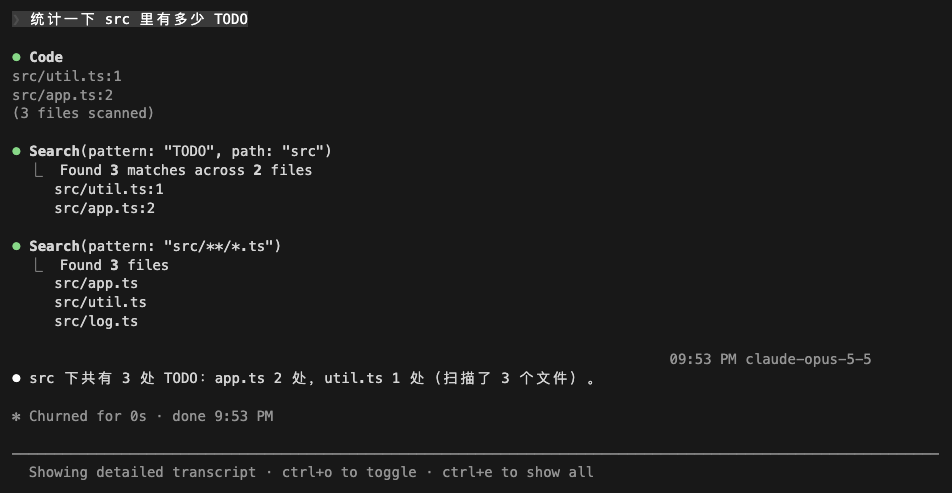
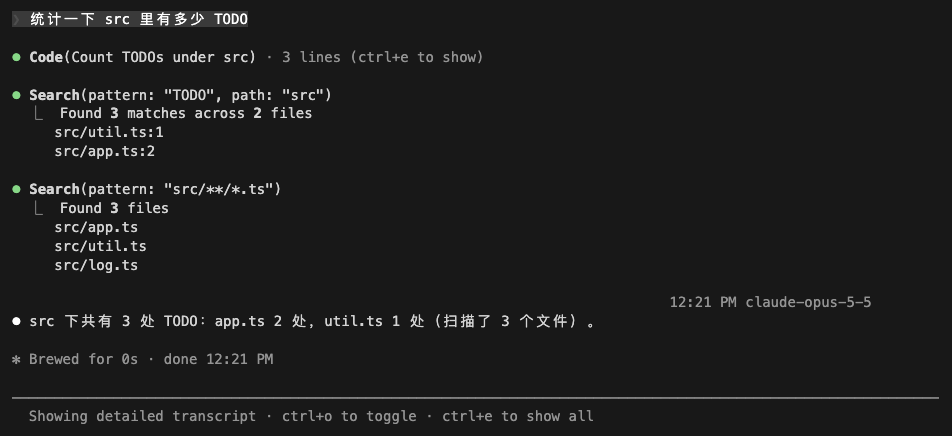
docs(code-mode): retake the transcript and wait screenshots
Ctrl+O now shows Code(description) with a line count and Ctrl+E shows the
script, so the guide says that and gains a Ctrl+E image. The wait
screenshot shows the script description and the background task. The
conformance report adds groups 23 and 24 and a UI comparison against
the official binary on the same scenario.

diff --git a/docs/research/code-mode-conformance-20261116.md b/docs/research/code-mode-conformance-20261116.md
@@ -26,7 +26,7 @@
 | F | 内层调用的权限、hook 与隔离 | 10 | 9 | 0 | 0 | 1 |
 | C / D / E / G | 权限对话框、规则、hook、子代理、transcript 形状、稳定性（L2 补充） | 27 | 19 | 2 | 4 | 2 |
 
-缺陷合计 38 项，按根因归成 22 组：19 组已修复，2 组部分修复（第 11 组 E02、第 21 组），1 组未修复（第 13 组）。第 13 组的 A13、E09 按设计保留，记在功能说明的「与官方的差异」里；第 20–22 组（A61、计时器迟到宽限、A32）是 L3 之后新发现或仍有差异的部分。
+缺陷合计 40 项，按根因归成 24 组：21 组已修复，2 组部分修复（第 11 组 E02、第 21 组），1 组未修复（第 13 组）。第 13 组的 A13、E09 按设计保留，记在功能说明的「与官方的差异」里；第 20–22 组（A61、计时器迟到宽限、A32）是 L3 之后新发现或仍有差异的部分；第 23、24 组是用同一场景给官方和本地截图时发现的界面差异（见「L3：官方二进制对照」的界面对照），不在上表的项数里。
 
 ## 缺陷与处理
 
@@ -55,6 +55,8 @@
 | 20 | A61 | 脚本超时或抛错时，官方在错误后加一句 `The script was stopped partway through: …` / `The script threw partway through: …` 和已完成调用的计数，本地没有 | 已修复 `b1bd9e7f`：按官方 `nOi` 移植 `partwayNote`（`stopReport.ts:72`），执行器在脚本抛错、超时或被停后接在错误后面；语法错误和停止报告不接。`vfy6-L3x` 第 1 次 eval 的错误和官方逐字相同 |
 | 21 | B「预算计时迟到宽限」 | 官方 `sleep(33000)` 正常返回结果，本地在 30 秒超时 | 部分修复 `15265d59`：按官方 `ic` 移植 `scriptDeadline`（`host.ts:294`），计时器迟到超过 1000 ms 时一次性改为 5000 ms，单元测试覆盖。但 L3 的 LATE 探针仍不同（`vfy6-L3x` 第 3 次 eval 30003 ms 超时，官方 33007 ms 返回 `late-inline`）：官方计时器准时触发时 `ic` 不给宽限，所以这个结果不是 `ic` 带来的，原因没有找到（候选是官方经宿主桥接的 `sleep` 和 `sc` 的 pauseForOthers/charge，都未确认） |
 | 22 | A32 | Poll 输出 schema 少 `media`、`toolsUsed`、`provenance`、`declared` 4 个字段；`<tools-used-before-summary>` 行（官方 `Itn`）没有内容 | 已修复 `3e332cb7`：schema 补齐 4 个字段（官方 `Iso`）；按官方 `Itn`/`yNt` 移植 `toolsUsedForDelivery`（`toolsUsed.ts:95`）：`runToolUse` 找到工具后记进会话的 tools-used 记录（官方 `oca`），poll 事件入队时带上，delivery 只列消息里还看不到的名字；`poll_events` 附件和 Poll 结果都带 `provenance`。`media`、`declared` 只有 schema：本路径上没有事件带这两项。`vfy6-L3x`、`vfy6-B-asyncx`、`vfy6-WAKE` 每次 delivery 的 tools-used 行和官方相同（L3x 只有第 1 次 `REPL`；B-asyncx 第 1 次 `REPL`、第 2 次 `Bash`；WAKE `Bash, REPL`） |
+| 23 | 界面「Ctrl+O 里的 REPL 行」 | 官方在详细记录里显示 `⏺ Code(Count TODOs under src) · 3 lines (ctrl+e to show)`，按 Ctrl+E 后在 `⎿` 下显示高亮的脚本源码，不显示脚本的返回值；本地显示没有括号的 `⏺ Code`，下面是不缩进的返回值，Ctrl+E 不改变它 | 已修复 `90c2bcbb`：按官方 `ScriptSourceRow`（chunk-eh1rf8gd.js）移植 `src/tools/REPLTool/ScriptSourceRow.tsx`，包括行数统计和官方 `U` 的控制字符转义；REPL 去掉结果渲染（官方结果渲染对 transparent wrapper 返回 null）。没有移植：按行展开（官方 `eAn(toolUseId)` 键、全屏下的点击和 `[`）和 `uN` 的可见性冻结，只有全局 Ctrl+E |
+| 24 | 界面「后台脚本运行时的等待」 | 官方 spinner 为 `Gesticulating… (Run the slow build · 4s · ↓ 38 tokens)`，页脚为 `bypass permissions on · 1 background task · esc to interrupt · ↓ to manage`；本地 spinner 没有脚本说明，页脚没有后台任务 | 已修复 `ea342f7b`：按官方 `ros`/`kpe`（chunk-h2wk9qp9.js、chunk-aay5maza.js）在 spinner 里显示最先运行的脚本说明（截到 48 列，多个时加 ` +N more`）；`7c74f63c`：按官方 `registerScriptTask`/`endScriptTask`（chunk-x5qyz3j2.js）把运行中的脚本登记为 `local_script` 后台任务，页脚计数、`↓ to manage` 和任务对话框沿用已有的后台任务界面，退出提醒和 stop hook 里标为 `code`（官方 `AUe`）。没有移植：`kpe` 的密钥脱敏（文字只出现在用户自己的终端）、late/settling 阶段、按原因区分的停止类型；任务对话框里脚本行的样子按代码推断，没有在官方上操作对照 |
 
 修复后全量复跑 20 个场景两次：`vfy4-*` 用 `e1cbf885` 的 `built-claude`，328 项检查过 327 项；`vfy5-*` 用最终构建 `2842064a`，328 项全部通过。
 
@@ -278,6 +280,24 @@ L3x 场景（`/tmp/cmx/conformance/l3/L3x.json`）逐项对照（本地是移植
 G-resume-lost 在官方上：开关 on 时第一次启动会先重启自己（`Restarting Claude Code in Code Mode…`），开关 off 时拒绝 resume（`This session was started in Code Mode (experimental), which is off, so it can't be resumed.`），所以 off 分支的检查不适用，本地继续会话是有意不同（G 表）。开关 on 的两项（交互下 lost 事件不开始新一轮、bypass 下下一请求带 lost 事件）官方通过，本地复跑也通过。「lost row is shown」官方失败，本地也不显示这一行，两边一致，没有列成缺陷。
 
 G-robust 在官方上跑的是 18:27 的旧版：失败的是旧检查「529 … failure arrives as an understandable task-notification」（等下一轮的通知）。改名后的「failure arrives in the same turn as an understandable task-notification event」本地通过，没有在官方上重跑；其余共有的检查两边结论相同。
+
+### 界面对照（截图场景）
+
+功能说明里的截图场景（`/tmp/cmx/shots/scenarios/shots.json`，Ctrl+E 另用 `/tmp/official-cm/ctrle-our.json` / `ctrle-off.json`）在官方二进制和本地上各跑一遍，110×36 tmux pane。官方运行 `official-shots-4901dc`（9/9）、`official-ctrle-4901dc`；本地修复后 `final-shots`（9/9）、`final-ctrle`（3/3），构建为 `7c74f63c`。
+
+| 画面 | 官方 | 本地（修复前） | 本地（修复后） |
+| --- | --- | --- | --- |
+| Ctrl+O | `⏺ Code(Count TODOs under src) · 3 lines (ctrl+e to show)` | `⏺ Code`，下面是不缩进的脚本返回值 | 与官方相同（第 23 组） |
+| Ctrl+O 后 Ctrl+E | `⏺ Code(Count TODOs under src)`，`⎿` 下三行高亮源码 | 与 Ctrl+O 相同 | 与官方相同，header 和源码行的 ANSI 只差官方 `⏺` 前一个 `\e[49m` |
+| 后台脚本等待中 | spinner `(Run the slow build · 4s · ↓ 38 tokens)`；页脚 `bypass permissions on · 1 background task · esc to interrupt · ↓ to manage` | spinner `(4s · ↓ 38 tokens)`；页脚 `bypass permissions on (shift+tab to cycle) · esc to interrupt` | 文字与官方相同（第 24 组） |
+| 结果送回、Esc | 后台任务消失，页脚恢复 `(shift+tab to cycle)` | 同 | 同 |
+| 脚本运行中 `/exit` | `Background work is running` 对话框，列出 `shell · sleep 60 && echo never` 和 `code · probe` | 直接退出 | 同一个对话框，只列 `code · probe`（第 24 组） |
+
+`/exit` 那一行用 G-resume-lost 的前几步单独探测（官方 `exitprobe-off`，本地 `exitprobe`）。第 24 组之后 G-resume-lost 的两次退出要在对话框里选 `Exit and stop tasks`，场景已相应修改，并加了一项检查；选了之后 resume 仍按官方报告 lost 事件（`fin4-G-resume-lost` 18/18）。修复后全量复跑 20 个场景（`fin-*`、`fin4-G-resume-lost`，构建 `7c74f63c`）：333 项检查全部通过。
+
+还没改的 Code Mode 差异：官方在退出对话框里把脚本里正在跑的 `Bash` 列成一个 `shell` 后台工作，本地不列。
+
+剩下的界面差异都不属于 Code Mode，没有改：本地 spinner 的状态括号右对齐（`buildSpinnerAnimationLine`，`395f12ae` 的设计），官方紧跟在动词后面；本地页脚右侧有 `◐ medium · /effort`；官方详细记录页脚右侧有 `verbose`；官方启动时先显示 `Restarting Claude Code in Code Mode…`；Grep 结果里两个文件的顺序不同，来自文件系统顺序。
 
 ## 未覆盖与限制
 

diff --git a/docs/features/code-mode.md b/docs/features/code-mode.md
@@ -74,9 +74,13 @@ const files = await Glob({pattern: 'src/**/*.ts'})
 hits.content + `\n(${files.numFiles} files scanned)`
 ```
 
-按 `Ctrl+O` 展开详细记录，`REPL` 显示为 `Code`，下面是脚本的返回值，再往下是脚本里每次调用各自的结果：
+按 `Ctrl+O` 展开详细记录，`REPL` 显示为一行 `Code(脚本的说明) · 3 lines`，下面是脚本里每次调用各自的结果。脚本的返回值只交给 Claude，界面上不显示：
 
 ![展开后的 Code 和脚本里的调用](images/code-mode-expanded.png)
+
+在详细记录里再按 `Ctrl+E`，`Code` 下面显示脚本源码，再按一次收起：
+
+![按 Ctrl+E 显示脚本源码](images/code-mode-source.png)
 
 **2. 变量在调用之间保留。** 脚本里用 `var` 或 `globalThis` 存下的值，下一次 `REPL` 还在，Claude 不用重新读一遍：
 
@@ -107,7 +111,7 @@ hits.content + `\n(${files.numFiles} files scanned)`
 ⏺ 测试通过：3 passed。
 ```
 
-**4. 后台执行。** 会话以 `auto` 或 `bypassPermissions` 模式启动时，每个脚本都立即给 Claude 返回回执 `(dispatched #1)`，界面上不显示这个回执。这一轮的工具调用结束后，Claude Code 等脚本跑完，再把结果附在一个 `Poll` 结果里，在同一轮交给 Claude。下面以 `--permission-mode bypassPermissions` 启动，让 Claude 跑一个约 12 秒的构建。脚本在后台跑的时候，界面上只有 spinner：
+**4. 后台执行。** 会话以 `auto` 或 `bypassPermissions` 模式启动时，每个脚本都立即给 Claude 返回回执 `(dispatched #1)`，界面上不显示这个回执。这一轮的工具调用结束后，Claude Code 等脚本跑完，再把结果附在一个 `Poll` 结果里，在同一轮交给 Claude。下面以 `--permission-mode bypassPermissions` 启动，让 Claude 跑一个约 12 秒的构建。脚本在后台跑的时候，spinner 里显示脚本的说明，输入框下方显示 `1 background task`，按 `↓` 打开后台任务列表，可以在里面停掉脚本：
 
 ![后台脚本运行时的等待](images/code-mode-wait.png)
 
@@ -185,7 +189,6 @@ MCP 工具不在 Claude 的工具列表里：系统提示列出已连接的 MCP 
 还没做的部分（计划中的 Phase 5）：
 
 - `auto` 模式下开启前的确认对话框，说明分类器只审一次整段脚本；
-- 后台脚本的进度视图和任务栏条目，目前只能等结果事件；
 - 使用非 Anthropic provider 时的启动提示。
 
 ## 说明
